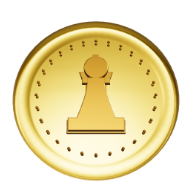
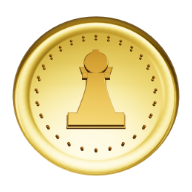
Notificações com a óticoin, pergunta dos avisos no primeiro login e a moeda centralizada
- O ícone pequeno da notificação (badge) é a óticoin em silhueta branca sobre
  fundo transparente (scripts/gerar-insignia.mjs): o ícone opaco virava um
  quadrado branco no Android
- Logo depois de entrar na conta, a tela inicial pergunta se quer ativar os
  avisos: uma vez por conta neste aparelho; depois, só nas Configurações
- A moeda no centro de verdade em todos os ícones (acertados nos pixels e no
  gerador) e nas imagens dela no jogo (classe oticoin)

Changed region(s): [[0.0625, 0.0625, 0.9375, 0.9688]]

diff --git a/src/telas/MenuXadrez.tsx b/src/telas/MenuXadrez.tsx
@@ -17,7 +17,7 @@ import { PainelLoja } from './PainelLoja'
 import { PainelPrivacidade } from './PainelPrivacidade'
 import { marcarPasseioVisto, PasseioInicial, passeioJaVisto, passeioNaAutomacao } from './PasseioInicial'
 import { instalarAplicativo, useAplicativo } from '../app/aplicativo'
-import { avisosSuportados, desligarAvisos, ligarAvisos, manterAvisos, situacaoDosAvisos, type SituacaoDosAvisos } from '../app/notificacoes'
+import { avisosJaPerguntados, avisosSuportados, desligarAvisos, ligarAvisos, manterAvisos, marcarAvisosPerguntados, situacaoDosAvisos, type SituacaoDosAvisos } from '../app/notificacoes'
 import { dispensarAvisoDoConvite, guardarPedidosAvisados, pedidosAvisados, useConviteDeAmizade } from '../conta/conviteDeAmizade'
 import type { VitrineDaPeca } from '../tabuleiro/pecas/equipamentos'
 import type * as THREE from 'three'
@@ -158,6 +158,7 @@ function AvisosComOJogoFechado({ t, idioma }: { t: Traduzir; idioma: Idioma }) {
         ligado={situacao === 'ligados'}
         onMudar={(ligar) => {
           if (mudando || !sessao || situacao === 'bloqueados') return
+          marcarAvisosPerguntados(sessao.usuario.id)
           setMudando(true)
           void (ligar ? ligarAvisos(idioma) : desligarAvisos())
             .then(setSituacao)
@@ -166,6 +167,63 @@ function AvisosComOJogoFechado({ t, idioma }: { t: Traduzir; idioma: Idioma }) {
         }}
       />
     </Linha>
+  )
+}
+
+/**
+ * A pergunta dos avisos, logo depois de entrar na conta (pedido do usuário, 27/11): uma vez só por conta neste aparelho,
+ * e só onde o aparelho sabe mostrar os avisos e eles ainda estão desligados. Ativar pede a permissão do aparelho (no
+ * toque, como o navegador exige); depois, só nas Configurações.
+ */
+function PerguntaDosAvisos({ t, idioma }: { t: Traduzir; idioma: Idioma }) {
+  const sessao = useSessao()
+  const usuario = sessao?.usuario.id
+  const [perguntar, setPerguntar] = useState(false)
+  const [ativando, setAtivando] = useState(false)
+  useEffect(() => {
+    setPerguntar(false)
+    // os testes automáticos não veem a pergunta (cobriria os botões), como o passeio
+    if (!usuario || !avisosSuportados() || avisosJaPerguntados(usuario) || navigator.webdriver) return
+    let vivo = true
+    void situacaoDosAvisos().then((s) => {
+      if (!vivo) return
+      // já ligados ou bloqueados no aparelho: não há o que perguntar
+      if (s === 'desligados') setPerguntar(true)
+      else marcarAvisosPerguntados(usuario)
+    })
+    return () => {
+      vivo = false
+    }
+  }, [usuario])
+  if (!perguntar || !usuario) return null
+  const responder = (ativar: boolean) => {
+    marcarAvisosPerguntados(usuario)
+    if (!ativar) {
+      setPerguntar(false)
+      return
+    }
+    setAtivando(true)
+    void ligarAvisos(idioma)
+      .catch(() => undefined)
+      .finally(() => setPerguntar(false))
+  }
+  return (
+    <div role="dialog" aria-label={t('avisos.pergunta')} className="absolute left-1/2 top-14 z-20 w-[min(22rem,calc(100%-2rem))] -translate-x-1/2 rounded-xl border border-[#c9a24a]/60 bg-[#1c120a]/95 p-4 text-[#f5e6c8] shadow-xl" data-pergunta-avisos>
+      <p className="flex items-center gap-2 font-display text-base font-semibold">
+        <img src={`${import.meta.env.BASE_URL}icones/icone-192.png`} alt="" aria-hidden className="h-6 w-6" />
+        {t('avisos.pergunta')}
+      </p>
+      <p className="mt-1.5 text-xs leading-snug text-[#c9b48a]">{t('config.avisosDica')}</p>
+      <p className="mt-1 text-[0.7rem] text-[#c9b48a]/80">{t('avisos.depois')}</p>
+      <div className="mt-3 flex justify-end gap-2">
+        <button type="button" className={botaoPequeno} disabled={ativando} onClick={() => responder(false)}>
+          {t('avisos.agoraNao')}
+        </button>
+        <button type="button" disabled={ativando} onClick={() => responder(true)} className="rounded-lg border border-[#e6c675] bg-[#c9a24a] px-3 py-1 text-xs font-semibold text-[#1c120a] hover:bg-[#e6c675] disabled:opacity-60">
+          {t('avisos.ativar')}
+        </button>
+      </div>
+    </div>
   )
 }
 
@@ -588,6 +646,8 @@ export function MenuXadrez({
       )}
 
       {painel === 'inicio' && passeio && <PasseioInicial t={t} onFim={() => setPasseio(false)} />}
+      {/* depois de entrar na conta: ativar os avisos? (uma vez só; não por cima do passeio) */}
+      {painel === 'inicio' && !passeio && !mostrandoCodigo && <PerguntaDosAvisos t={t} idioma={config.idioma} />}
 
       {painel !== 'inicio' && (
         <section role="dialog" aria-label={t(TITULOS[painel])} className={painelMenu}>

diff --git a/src/textos/idiomas.ts b/src/textos/idiomas.ts
@@ -84,6 +84,10 @@ const PT = {
   'config.toque': 'Toque',
   'config.toqueDica': 'Som e vibração ao tocar nas peças',
   'config.avisos': 'Avisos com o jogo fechado',
+  'avisos.pergunta': 'Ativar as notificações?',
+  'avisos.depois': 'Dá pra mudar quando quiser em Perfil → Configurações.',
+  'avisos.ativar': 'Ativar',
+  'avisos.agoraNao': 'Agora não',
   'config.avisosDica': 'A sua vez numa partida online, convites, pedidos de amizade e o fim da partida chegam como notificação, mesmo com o jogo em segundo plano ou fechado.',
   'config.avisosSemConta': 'Entre na conta pra receber os avisos da sua vez, dos convites e do fim da partida com o jogo fechado.',
   'config.avisosBloqueados': 'As notificações do jogo estão bloqueadas neste aparelho. Libere nas configurações do navegador ou do celular e volte aqui.',
@@ -603,6 +607,10 @@ const EN: Record<ChaveTexto, string> = {
   'config.toque': 'Touch feedback',
   'config.toqueDica': 'Sound and vibration when touching pieces',
   'config.avisos': 'Alerts while closed',
+  'avisos.pergunta': 'Turn on notifications?',
+  'avisos.depois': 'You can change this anytime in Profile → Settings.',
+  'avisos.ativar': 'Turn on',
+  'avisos.agoraNao': 'Not now',
   'config.avisosDica': 'Your turn in an online game, invites, friend requests and the end of a game arrive as notifications, even with the game in the background or closed.',
   'config.avisosSemConta': 'Sign in to get alerts for your turn, invites and the end of a game while the game is closed.',
   'config.avisosBloqueados': 'Notifications from the game are blocked on this device. Allow them in the browser or phone settings and come back here.',
@@ -1120,6 +1128,10 @@ const ES: Record<ChaveTexto, string> = {
   'config.toque': 'Toque',
   'config.toqueDica': 'Sonido y vibración al tocar las piezas',
   'config.avisos': 'Avisos con el juego cerrado',
+  'avisos.pergunta': '¿Activar las notificaciones?',
+  'avisos.depois': 'Puedes cambiarlo cuando quieras en Perfil → Configuración.',
+  'avisos.ativar': 'Activar',
+  'avisos.agoraNao': 'Ahora no',
   'config.avisosDica': 'Tu turno en una partida online, invitaciones, solicitudes de amistad y el fin de la partida llegan como notificación, incluso con el juego en segundo plano o cerrado.',
   'config.avisosSemConta': 'Inicia sesión para recibir avisos de tu turno, de las invitaciones y del fin de la partida con el juego cerrado.',
   'config.avisosBloqueados': 'Las notificaciones del juego están bloqueadas en este dispositivo. Actívalas en la configuración del navegador o del celular y vuelve aquí.',

diff --git a/scripts/oticoin/moeda.js b/scripts/oticoin/moeda.js
@@ -145,6 +145,26 @@ const logo = new Image()
 logo.src = renderer.domElement.toDataURL('image/png')
 await logo.decode()
 
+/** Onde a moeda está no render da logo: o contorno dos pixels que não são transparentes (o centro e o tamanho). */
+const CONTORNO = (() => {
+  const tela = document.createElement('canvas')
+  tela.width = logo.width
+  tela.height = logo.height
+  const c = tela.getContext('2d', { willReadFrequently: true })
+  c.drawImage(logo, 0, 0)
+  const { data } = c.getImageData(0, 0, tela.width, tela.height)
+  let x0 = tela.width, x1 = -1, y0 = tela.height, y1 = -1
+  for (let y = 0; y < tela.height; y++)
+    for (let x = 0; x < tela.width; x++)
+      if (data[(y * tela.width + x) * 4 + 3] > 128) {
+        x0 = Math.min(x0, x)
+        x1 = Math.max(x1, x)
+        y0 = Math.min(y0, y)
+        y1 = Math.max(y1, y)
+      }
+  return { cx: (x0 + x1 + 1) / 2, cy: (y0 + y1 + 1) / 2, largura: x1 - x0 + 1, altura: y1 - y0 + 1 }
+})()
+
 /** A moeda num quadrado de `lado`, ocupando `parte` dele, sobre o fundo do jogo (ou transparente). */
 function icone(lado, parte, comFundo) {
   const tela = document.createElement('canvas')
@@ -159,9 +179,13 @@ function icone(lado, parte, comFundo) {
     c.fillRect(0, 0, lado, lado)
   }
   c.imageSmoothingQuality = 'high'
-  // a moeda ocupa uns 87% da largura do quadro renderizado; inclinada, um pouco mais da altura
-  const tamanho = (lado * parte) / 0.87
-  c.drawImage(logo, (lado - tamanho) / 2, (lado - tamanho) / 2, tamanho, tamanho)
+  // a moeda no centro de verdade (pedido do usuário, 27/11): vista um pouco de cima, a borda grossa de baixo deixava o
+  // desenho uns 2,5% abaixo do meio do quadro. Centra o contorno da moeda (`CONTORNO`, medido nos pixels do render), e
+  // o lado maior dela ocupa `parte` do quadro
+  const escala = (lado * parte) / Math.max(CONTORNO.largura, CONTORNO.altura)
+  const largura = logo.width * escala
+  const altura = logo.height * escala
+  c.drawImage(logo, lado / 2 - CONTORNO.cx * escala, lado / 2 - CONTORNO.cy * escala, largura, altura)
   return tela.toDataURL('image/png')
 }
 

diff --git a/src/app/notificacoes.ts b/src/app/notificacoes.ts
@@ -10,6 +10,27 @@ import type { Idioma } from '../textos/idiomas'
 export type SituacaoDosAvisos = 'sem-suporte' | 'bloqueados' | 'desligados' | 'ligados'
 
 const LIGADOS = 'xadrez:avisos'
+/** A pergunta do primeiro login (pedido do usuário, 27/11): por conta, neste aparelho. */
+const PERGUNTADOS = (usuario: string) => `xadrez:avisosPerguntados:${usuario}`
+
+/** Já perguntamos se essa conta quer os avisos neste aparelho (ou ela já mexeu neles nas Configurações). */
+export function avisosJaPerguntados(usuario: string): boolean {
+  try {
+    return localStorage.getItem(PERGUNTADOS(usuario)) === '1'
+  } catch {
+    // sem armazenamento, não insiste: a pessoa liga nas Configurações
+    return true
+  }
+}
+
+/** Não pergunta mais: daqui em diante, só nas Configurações, quando a pessoa quiser. */
+export function marcarAvisosPerguntados(usuario: string) {
+  try {
+    localStorage.setItem(PERGUNTADOS(usuario), '1')
+  } catch {
+    // fica pra próxima
+  }
+}
 
 /** O navegador sabe mostrar avisos com o jogo fechado (o service worker e o serviço de push). */
 export function avisosSuportados(): boolean {

diff --git a/src/telas/ElementosDoJogador.tsx b/src/telas/ElementosDoJogador.tsx
@@ -54,12 +54,12 @@ export function Oticoin({ tamanho = 16, figura = 'rei', girando = false }: { tam
     return (
       <span
         aria-hidden
-        className="oticoin-giro inline-block shrink-0"
+        className="oticoin oticoin-giro inline-block shrink-0"
         style={{ width: tamanho, height: tamanho, ['--tamanho' as string]: `${tamanho}px`, backgroundImage: `url(${import.meta.env.BASE_URL}oticoin/giro.webp)` }}
       />
     )
   }
-  return <img src={`${import.meta.env.BASE_URL}oticoin/${figura}.png`} alt="" aria-hidden width={tamanho} height={tamanho} className="shrink-0" />
+  return <img src={`${import.meta.env.BASE_URL}oticoin/${figura}.png`} alt="" aria-hidden width={tamanho} height={tamanho} className="oticoin shrink-0" />
 }
 
 function Quadro({ rotulo, valor }: { rotulo: string; valor: number }) {

diff --git a/scripts/aplicativo/sw.js b/scripts/aplicativo/sw.js
@@ -106,7 +106,9 @@ self.addEventListener('push', (evento) => {
         tag: aviso.etiqueta || 'xadrez',
         renotify: true,
         icon: enderecoDe('icones/icone-192.png'),
-        badge: enderecoDe('icones/icone-mascara-512.png'),
+        // o ícone pequeno da barra do Android: só a transparência vale, então é a óticoin em silhueta branca (o ícone
+        // opaco virava um quadrado branco). Sai de scripts/gerar-insignia.mjs
+        badge: enderecoDe('icones/insignia-96.png'),
         data: { url: enderecoDe(aviso.url || '') },
       })
     })(),

diff --git a/src/index.css b/src/index.css
@@ -88,6 +88,12 @@
 }
 
 @layer components {
+  /* a óticoin no centro do quadro (pedido do usuário, 27/11): vista um pouco de cima, a borda grossa de baixo deixa a
+     moeda 2,3% abaixo do meio nas imagens dela (o giro e os dois lados parados). Sobe na hora de mostrar, pra gerar as
+     imagens de novo não desfazer nem dobrar a correção */
+  .oticoin {
+    translate: 0 -2.3%;
+  }
   /* a óticoin girando: a fileira de quadros do giro, andada de quadro em quadro */
   .oticoin-giro {
     background-repeat: no-repeat;

diff --git a/CLAUDE.md b/CLAUDE.md
@@ -135,6 +135,13 @@ As pastas de `src` são por função:
   acabado (404/410) é apagada.
 - A sala (`sala.ts`, `avisarQuemSaiu`) só avisa quem não está com a partida aberta (as conexões dela), sem segurar o lance
   (`waitUntil`). As rotas de convite esperam o aviso no máximo 1,5 s (`avisarSemDemora`).
+- Logo depois de entrar na conta, a tela inicial pergunta se a pessoa quer ativar os avisos (pedido do usuário, 27/11:
+  `PerguntaDosAvisos` em MenuXadrez): uma vez só por conta neste aparelho (`xadrez:avisosPerguntados:<conta>`), e só
+  onde os avisos funcionam e ainda estão desligados. Mexer no controle das Configurações também conta como resposta;
+  depois, só por lá. O navegador automático dos testes não vê a pergunta, como o passeio.
+- O ícone pequeno do aviso (o `badge`, na barra do Android) é `public/icones/insignia-96.png`, a óticoin em silhueta
+  branca sobre fundo transparente (`node scripts/gerar-insignia.mjs`): o Android usa só a transparência, e o ícone opaco
+  de antes virava um quadrado branco (visto pelo usuário, 27/11).
 - O service worker (`scripts/aplicativo/sw.js`) mostra o aviso (não mostra se o jogo está aberto e à vista) e, no toque,
   abre o jogo no endereço dele: `?sala=<código>` entra na partida (`ChessBoard3D`) e `?amigos=1` abre os Amigos (menu).
   Com o jogo já aberto, manda o endereço por mensagem. Só existe no site publicado: no desenvolvimento a chave não aparece.
@@ -145,6 +152,10 @@ As pastas de `src` são por função:
 
 - O site é um PWA: `public/manifest.webmanifest`, ícones em `public/icones` (a óticoin é a logo; saem de
   `node scripts/gerar-oticoin.mjs`, junto com as imagens da moeda) e o service worker `scripts/aplicativo/sw.js`.
+- A moeda fica no centro de verdade em todos os ícones (pedido do usuário, 27/11): vista um pouco de cima, a borda grossa
+  de baixo deixava o desenho uns 2,5% abaixo do meio. O gerador (`scripts/oticoin/moeda.js`, `CONTORNO`) centra o contorno
+  dos pixels da moeda, e os ícones de hoje foram acertados nos pixels. As imagens da moeda no jogo (o giro e os dois lados)
+  sobem 2,3% na hora de mostrar (a classe `oticoin`, em index.css), pra gerar de novo não desfazer nem dobrar a correção.
 - `npm run build` roda `scripts/gerar-sw.mjs`, que grava `dist/sw.js` com a lista de arquivos e o hash de cada um. O
   aparelho guarda tudo e, a cada versão, baixa só o que mudou. Os arquivos da versão anterior ficam mais uma rodada,
   porque uma tela aberta há tempo ainda pode pedir algum.
